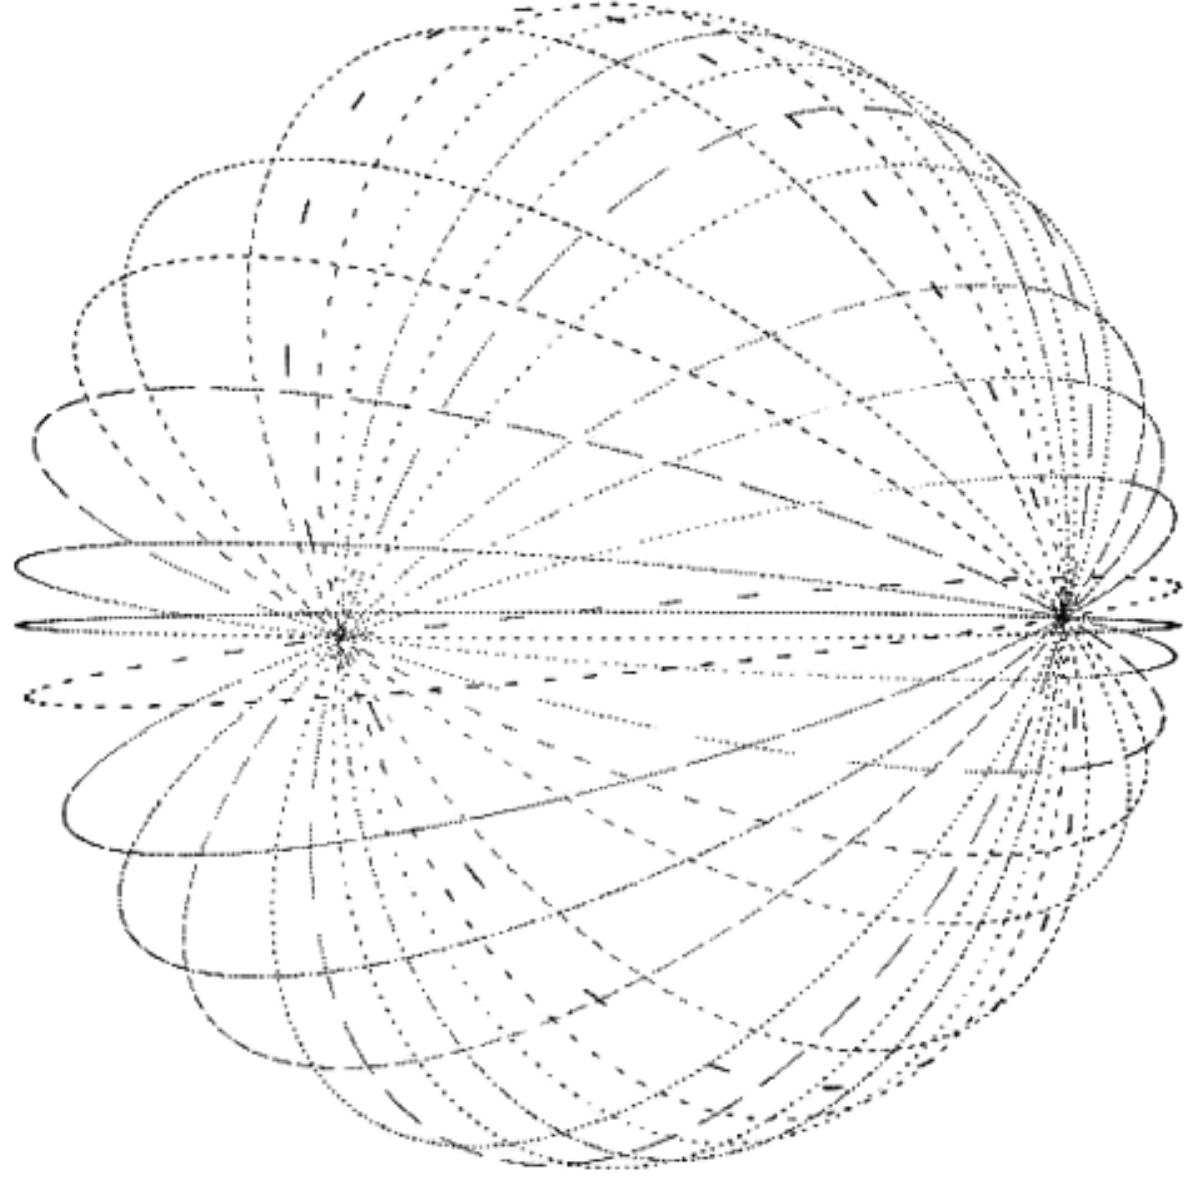
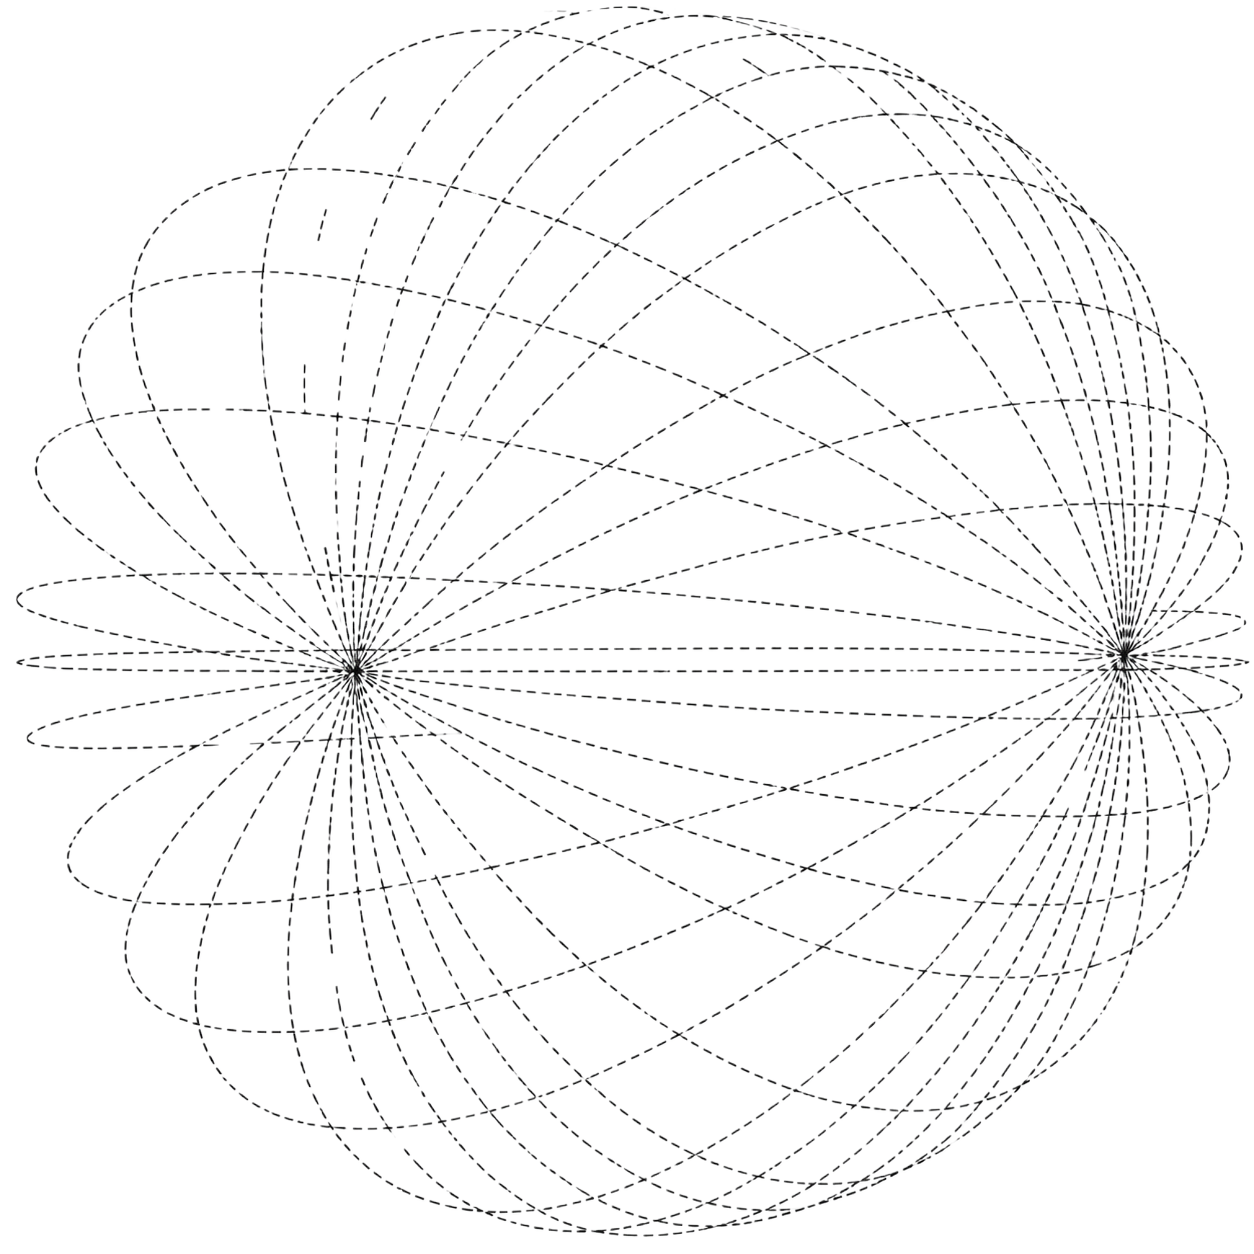
landing page update

diff --git a/web/apps/web-landing/src/components/sections/SDKs.tsx b/web/apps/web-landing/src/components/sections/SDKs.tsx
@@ -427,10 +427,13 @@ export default function SDKs() {
                 </p>
 
                 <p className="text-xs md:text-sm text-gray-600 dark:text-[#a8a898] leading-relaxed mb-4" style={{ fontFamily }}>
-                  One API. Drop the SDK into your existing codebase. Your app becomes deterministic, provable, survivable—without rewrite.
+                  One API for governed AI execution.
+                </p>
+                <p className="text-xs md:text-sm text-gray-600 dark:text-[#a8a898] leading-relaxed mb-4" style={{ fontFamily }}>
+                  Send AI tasks from your existing codebase and receive structured responses with execution metadata, signed records, and verification-ready artifacts.
                 </p>
                 <p className="text-xs md:text-sm text-gray-600 dark:text-[#a8a898] leading-relaxed mb-6" style={{ fontFamily }}>
-                  Local runtime with automatic cloud fallback. Test on your laptop. Deploy to servers, robots, or edge devices.
+                  Start locally. Connect your provider. Run through Igris.
                 </p>
                 <div>
                   <a
@@ -467,13 +470,16 @@ export default function SDKs() {
             <div className="flex flex-col justify-start pt-6 pb-8 pr-4 border-b md:border-b-0 md:border-r border-[rgba(209,213,219,0.2)] dark:border-[rgba(246,246,244,0.06)]">
               <div className="max-w-md">
                 <h4 className="text-lg md:text-xl lg:text-2xl text-[#000000] dark:text-[#f6f6f4] mb-4" style={{ fontFamily }}>
-                  Behavior Trees
+                  Structured execution
                 </h4>
                 <p className="text-xs md:text-sm text-gray-600 dark:text-[#a8a898] leading-relaxed mb-4" style={{ fontFamily }}>
-                  Define, validate, and execute behavior trees programmatically. Compose sequences, selectors, and actions into autonomous workflows that run locally on the runtime.
+                  Define how AI output becomes action.
+                </p>
+                <p className="text-xs md:text-sm text-gray-600 dark:text-[#a8a898] leading-relaxed mb-4" style={{ fontFamily }}>
+                  Use structured paths to coordinate multi-step tasks, approvals, tool calls, and recovery logic. Keep model reasoning flexible while execution stays bounded, inspectable, and reviewable.
                 </p>
                 <p className="text-xs md:text-sm text-gray-600 dark:text-[#a8a898] leading-relaxed mb-6" style={{ fontFamily }}>
-                  Deploy trees to devices. Validate client-side and server-side. Get signed execution traces for every run.
+                  For teams building long-running agents, edge workflows, and robotics prototypes.
                 </p>
                 <div>
                   <a
@@ -481,7 +487,7 @@ export default function SDKs() {
                     className="text-sm text-gray-900 dark:text-[#f6f6f4] underline decoration-dotted underline-offset-2 hover:text-gray-600 dark:hover:text-gray-300 transition-colors"
                     style={{ fontFamily }}
                   >
-                    BTree
+                    View execution model
                   </a>
                 </div>
               </div>

diff --git a/web/apps/web-landing/src/components/sections/CoreCapabilities.tsx b/web/apps/web-landing/src/components/sections/CoreCapabilities.tsx
@@ -5,8 +5,8 @@ import { useTheme } from 'next-themes'
 
 const capabilities = [
   {
-    name: 'Execute with Bounds',
-    description: 'Every execution runs in an isolated worker. Memory, CPU, and time are enforced at the OS level. Exceed a limit and the worker is killed. Every violation is signed and hash-chained.',
+    name: 'Controlled runs',
+    description: 'Define boundaries before an AI task executes. Apply limits, permission checks, and failure conditions so tasks do not continue unchecked.',
     imgDark: '/excd.png',
     imgLight: '/exdc.png',
     imgW: '140px',
@@ -15,8 +15,8 @@ const capabilities = [
     wrapH: '260px',
   },
   {
-    name: 'Decide with Structure',
-    description: 'Language models generate reasoning. The runtime governs execution through bounded control paths. Isolated, time-limited, and supervised. Intelligence remains flexible.',
+    name: 'Structured paths',
+    description: 'Let models reason, but keep execution on explicit paths. Use defined steps, conditions, and approvals to make long-running tasks easier to inspect and control.',
     imgDark: '/cr.png?v=2',
     imgLight: '/tre.png',
     imgW: '240px',
@@ -25,8 +25,8 @@ const capabilities = [
     wrapH: '350px',
   },
   {
-    name: 'Remember with Proof',
-    description: 'Every execution produces a signed envelope. Violations are hash-chained and tamper-evident. Verify independently — without our control plane. You verify the system.',
+    name: 'Verifiable records',
+    description: 'Generate signed execution records for critical runs, so teams can inspect what happened and verify the result independently.',
     imgDark: '/cc.png',
     imgLight: '/one.png',
     imgW: '140px',
@@ -55,7 +55,7 @@ export default function CoreCapabilities() {
           <div className="py-6 md:py-12 lg:py-16">
             <div className="flex flex-col md:flex-row md:items-center md:justify-between gap-3 pb-6">
               <h3 className="text-xl md:text-2xl lg:text-3xl text-[#000000] dark:text-[#f6f6f4]" style={{ fontFamily }}>
-                The Guarantees
+                Execution guarantees
               </h3>
               <Link
                 href="/core"

diff --git a/web/apps/web-landing/src/components/sections/MultiTenancy.tsx b/web/apps/web-landing/src/components/sections/MultiTenancy.tsx
@@ -4,20 +4,20 @@ import { ChevronRight } from 'lucide-react'
 
 const features = [
   {
-    title: 'Signed execution',
-    description: 'Every decision cryptographically signed. Verify independently—without our control plane.',
+    title: 'Signed execution records',
+    description: 'Critical runs can produce signed records that capture execution metadata, route decisions, and verification material.',
   },
   {
-    title: 'Fail-Safe Execution',
-    description: 'An independent supervisor enforces hard limits. No in-process corruption. No silent fallback. If execution breaks its contract, it stops. The system survives.',
+    title: 'Failure-aware execution',
+    description: 'Design tasks with explicit stop conditions, fallback paths, and verification records so failures are visible instead of silent.',
   },
   {
-    title: 'Air-gapped operation',
-    description: 'Runs indefinitely without network. Survives outages. Syncs when possible.',
+    title: 'Local-first operation',
+    description: 'Run closer to the environment where execution happens. Keep local records available even when cloud connectivity is limited.',
   },
   {
-    title: 'Verified updates',
-    description: 'Cryptographic signatures required. Unsigned artifacts rejected. Compromised devices excluded automatically.',
+    title: 'Verified artifacts',
+    description: 'Use signed artifacts and verification checks to reduce trust in unverified updates, outputs, and execution records.',
   },
 ]
 
